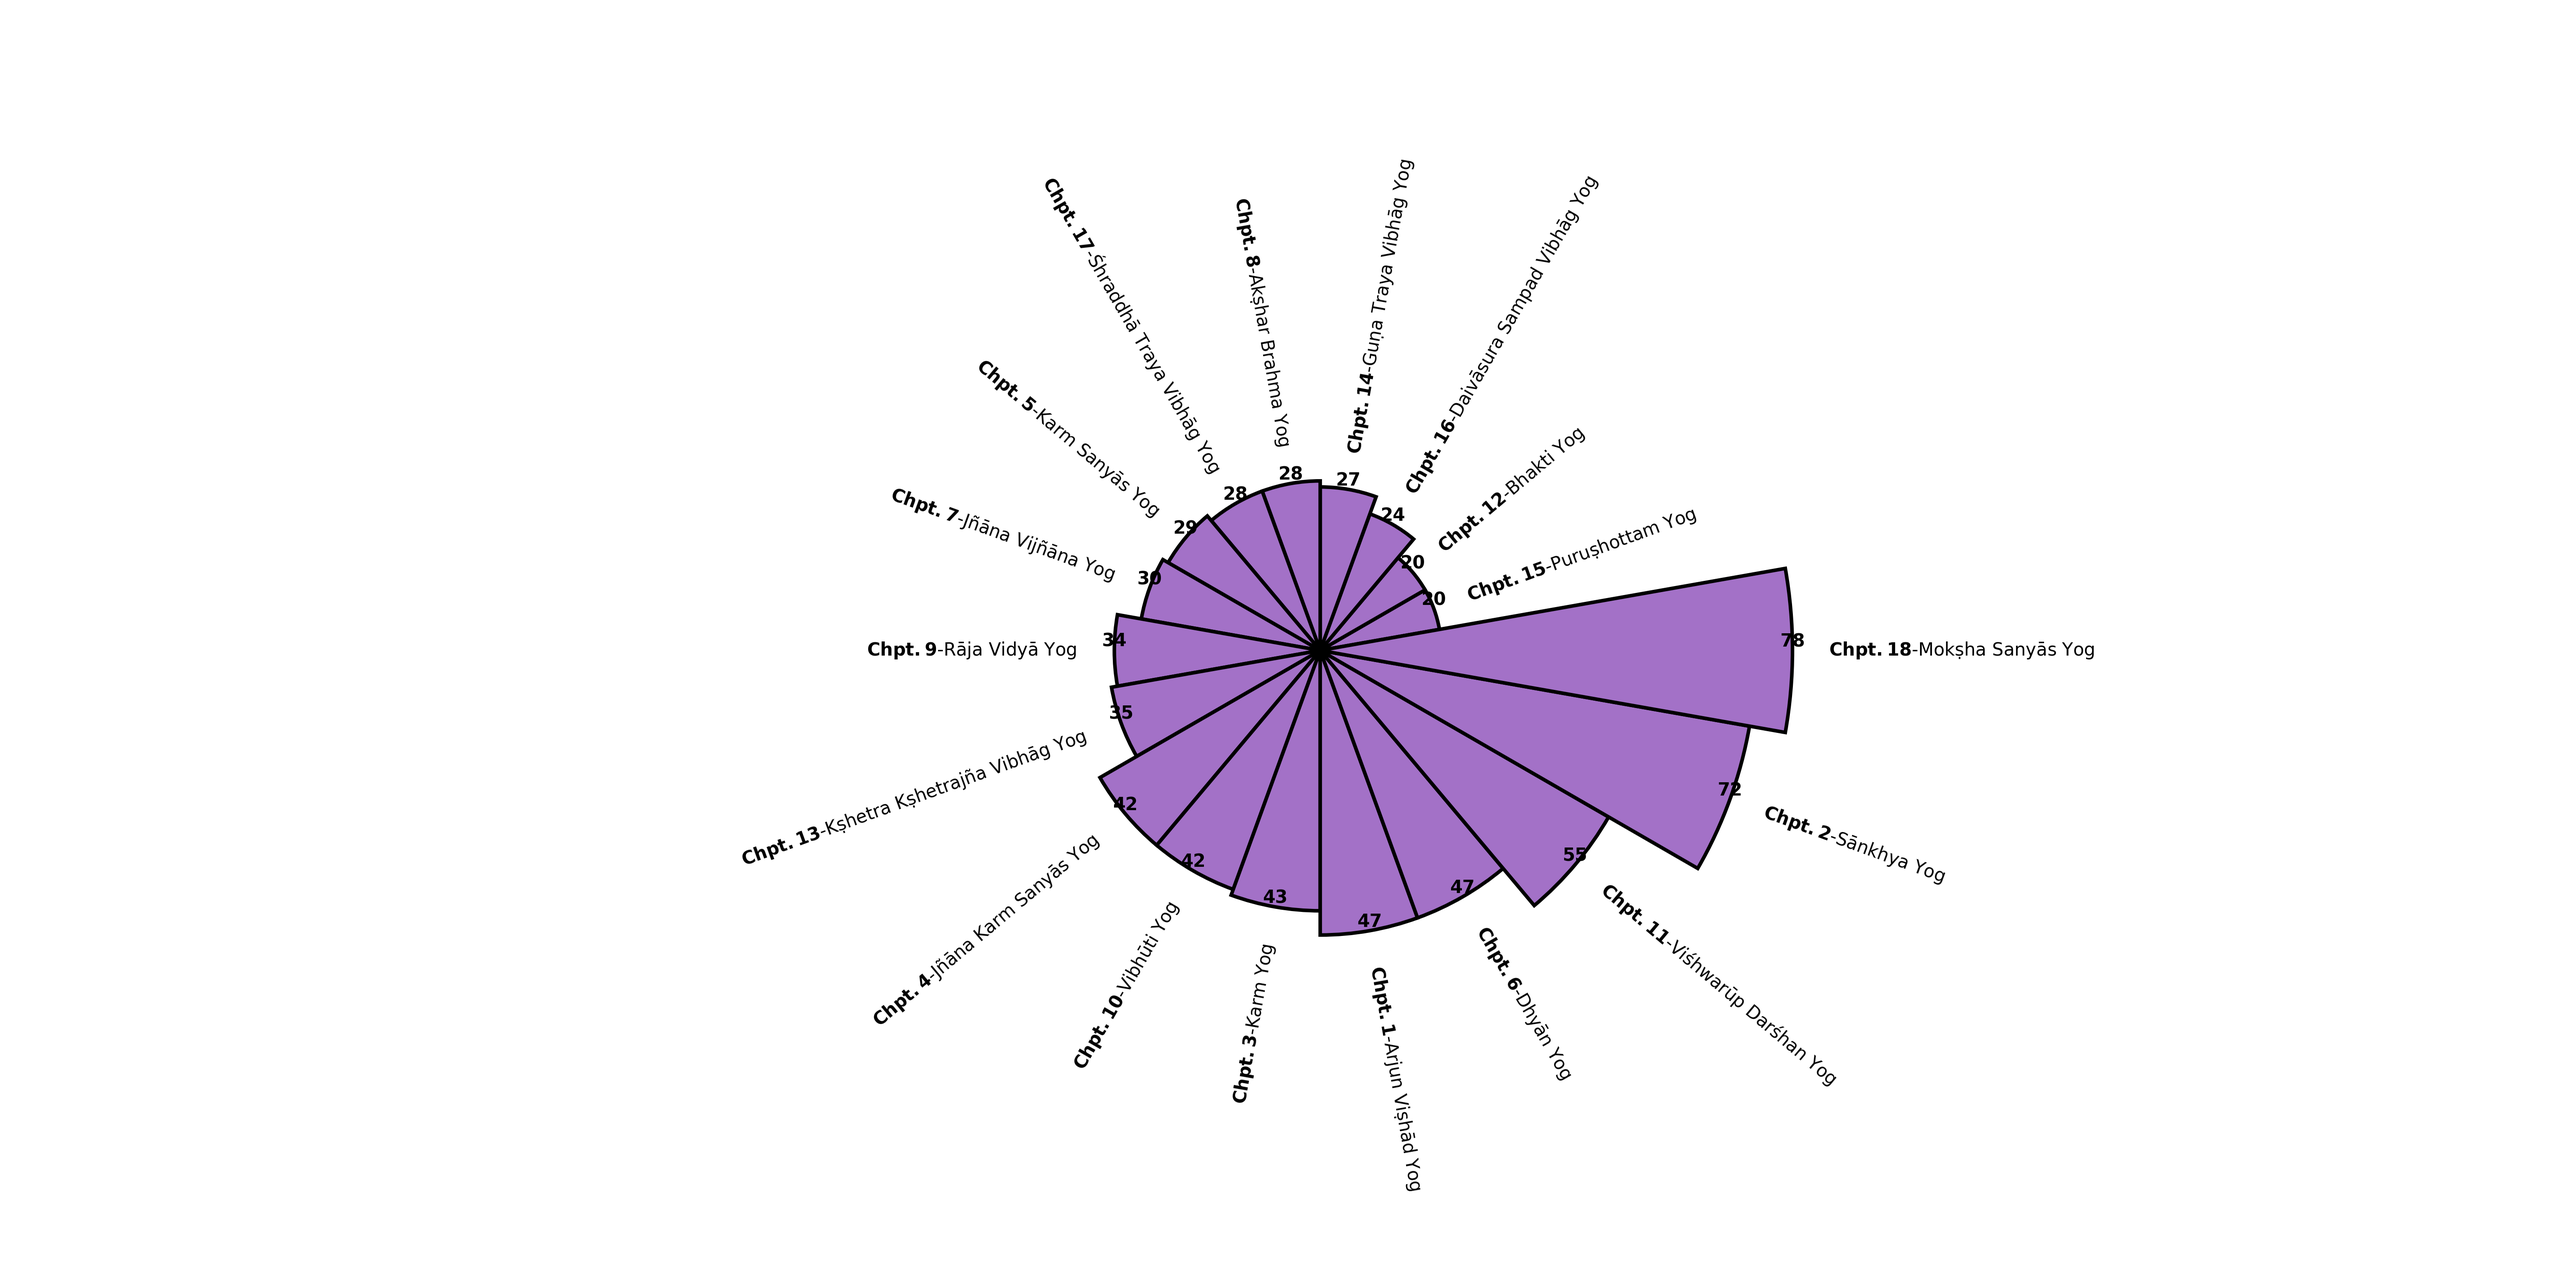
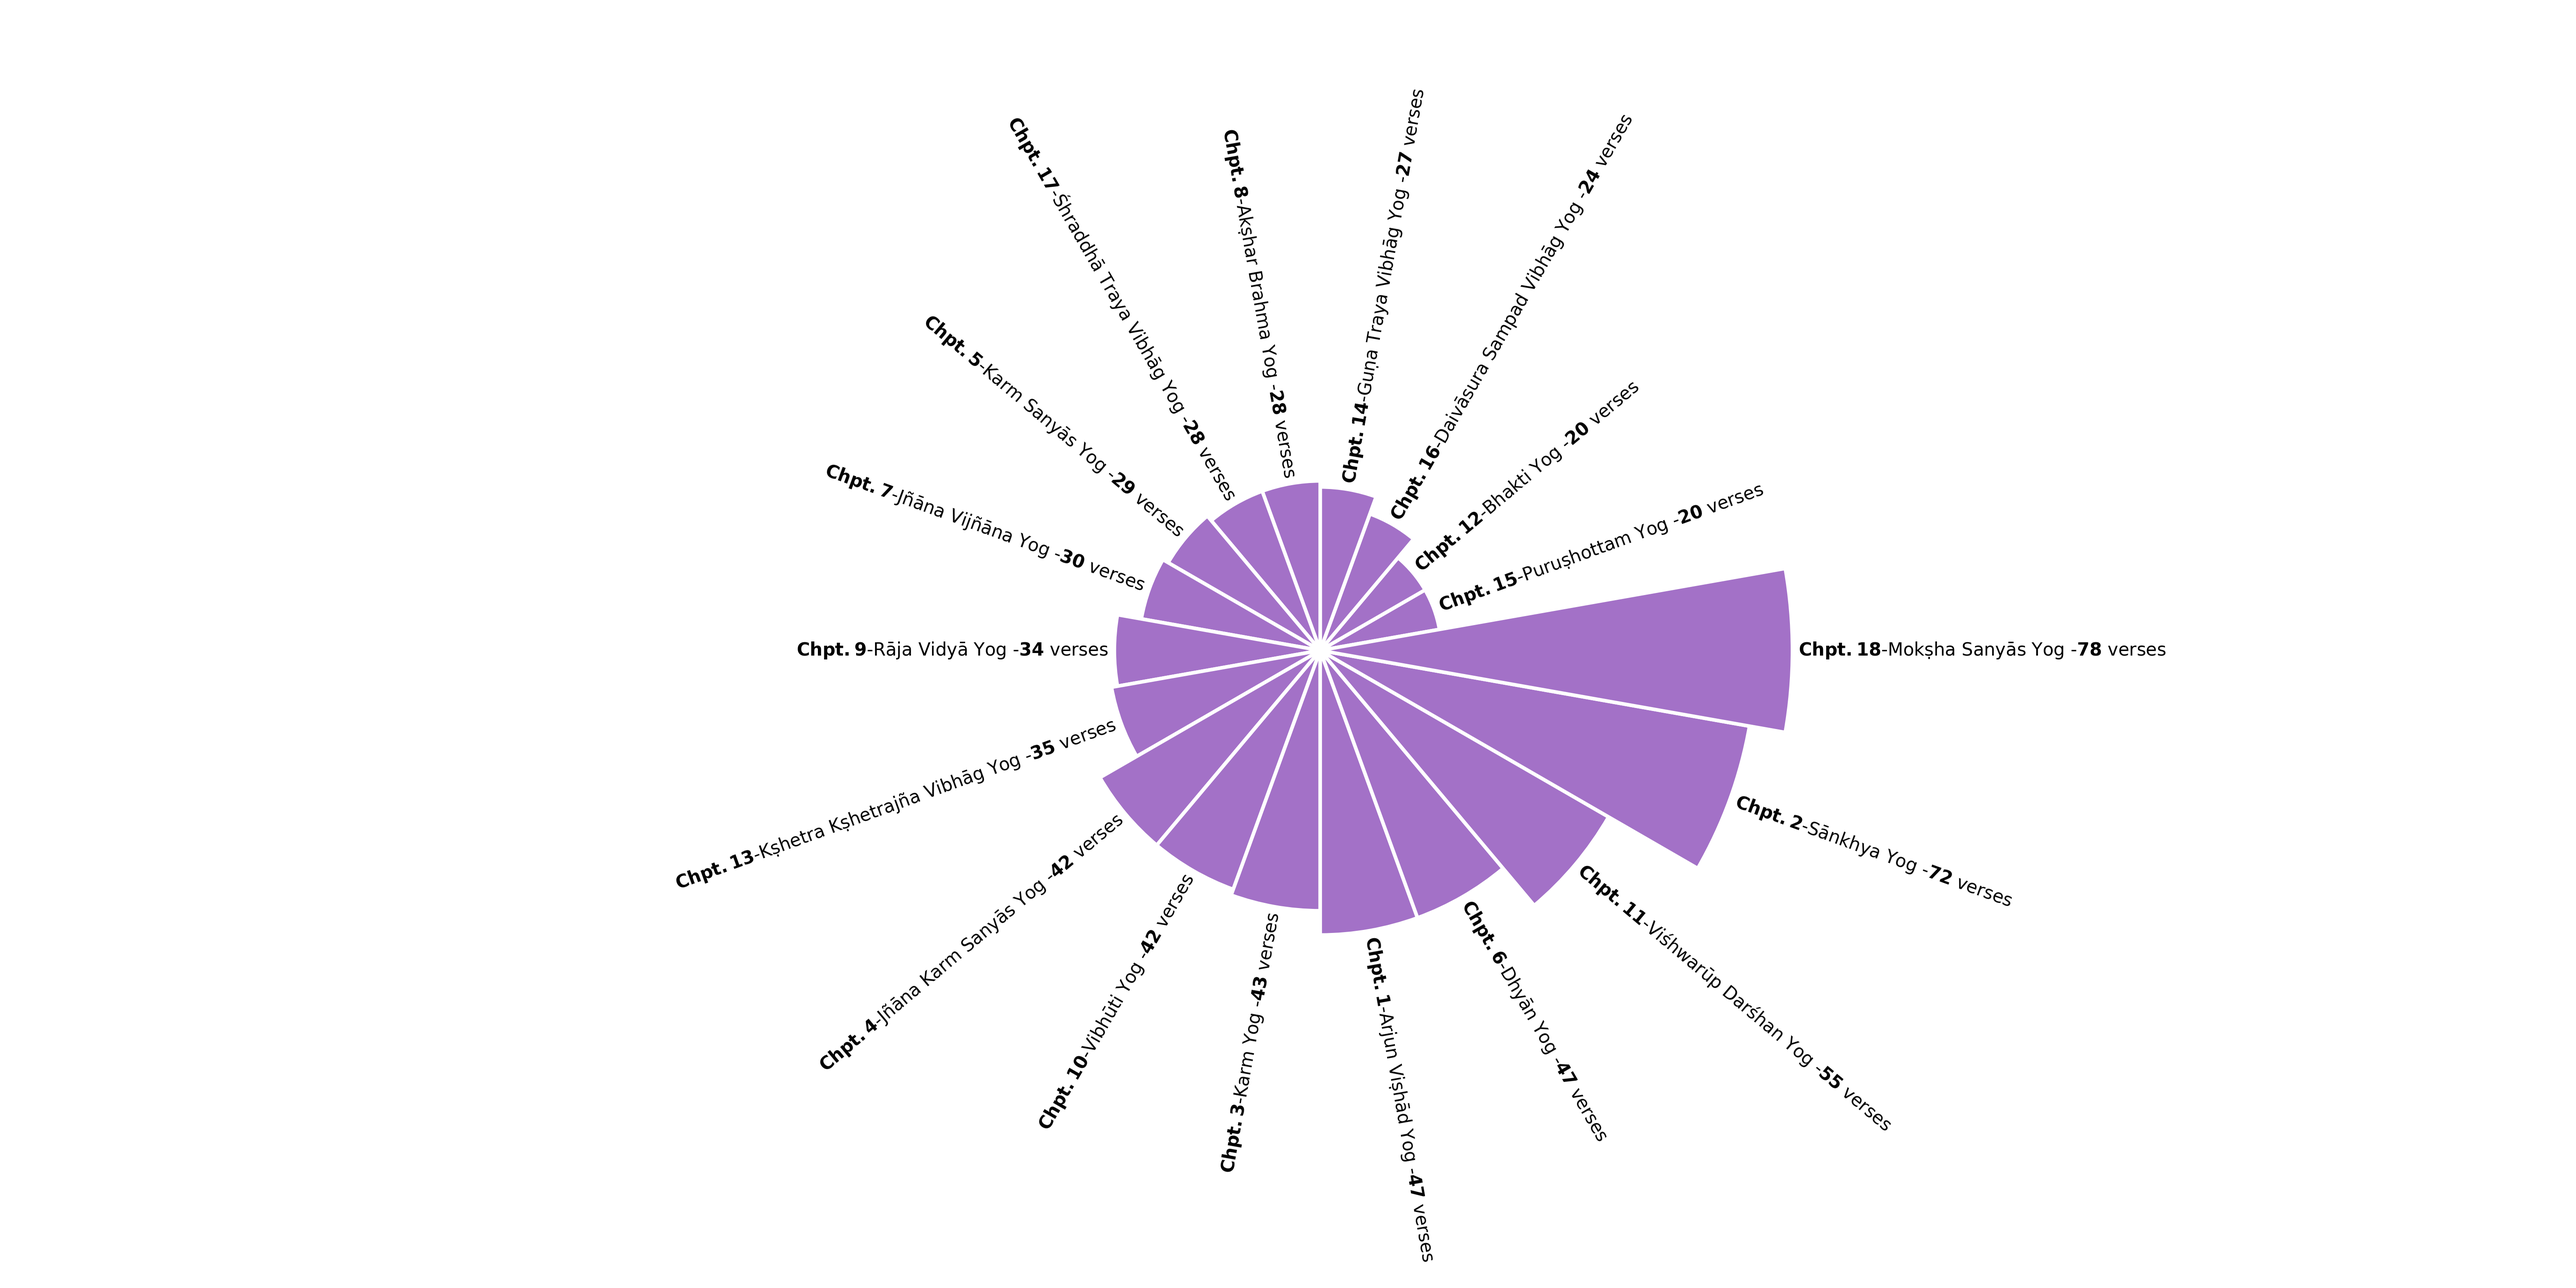
updated plots

diff --git a/analysis.py b/analysis.py
@@ -96,7 +96,7 @@ def plot_barchart():
         # new_list={'chpt': int(i), 'Verse_count': int(num)}
 
         # new_list = {'chpt':'Chpt. {} - {}'.format(i,chpt_name[0]), 'Verse_count': int(num)}
-        new_list = {'chpt': "$\\bf{Chpt.}$" + "$\\bf{" + '{}'.format(i) + "}$" + '-' + chpt_name[0],
+        new_list = {'chpt': "$\\bf{Chpt.}$" + "$\\bf{" + '{}'.format(i) + "}$" + '-' + chpt_name[0] + '-'+ "$\\bf{"+'{}'.format(num) +"}$ "+ 'verses',
                     'Verse_count': int(num)}
         alist.append(new_list)
 
@@ -139,11 +139,11 @@ def plot_barchart():
         width=width,
         bottom=lowerLimit,
         linewidth=2,
-        edgecolor="black",
+        edgecolor="white",
         color="#a371c7",
     )
     # little space between the bar and the label
-    labelPadding = 6
+    labelPadding = 1
 
     # Add labels
     for bar, angle, height, label in zip(bars, angles, heights, Chpt_versecount["chpt"]):
@@ -169,8 +169,9 @@ def plot_barchart():
             color="#000000",
             rotation=rotation,
             rotation_mode="anchor")
-    for container in ax.containers:
-        ax.bar_label(container, weight='bold')
+
+    # for container in ax.containers:
+    #     ax.bar_label(container, weight='bold',color='#27065c') #fontsize=8 label_type='center'
 
     plt.savefig('plots/BG_verse_count.png', dpi=300)
     plt.show()
@@ -420,7 +421,8 @@ if __name__ == "__main__":
     print(f'"Arjuna" appears {data_flat_sans.count("अर्जुन")} time(s)')
 
     # joined = " ".join(data_flat_sans)
-    sum(data_flat_sans.count(x) for x in ("श्रीभगवानुवाच", "माधव","केशव","हृषिकेश","अच्युत","मधुसूदन","मुरारि","केशव","दामोदर","वसुदेव","गोविंद","मुरली"))
+    Krish_word_count=sum(data_flat_sans.count(x) for x in ("श्रीभगवानुवाच", "माधव","केशव","हृषिकेश","अच्युत","मधुसूदन","मुरारि","केशव","दामोदर","वसुदेव","गोविंद","मुरली"))
+    print(Krish_word_count)
 
     #collect each speaker
     # Arjun_verse=[]
